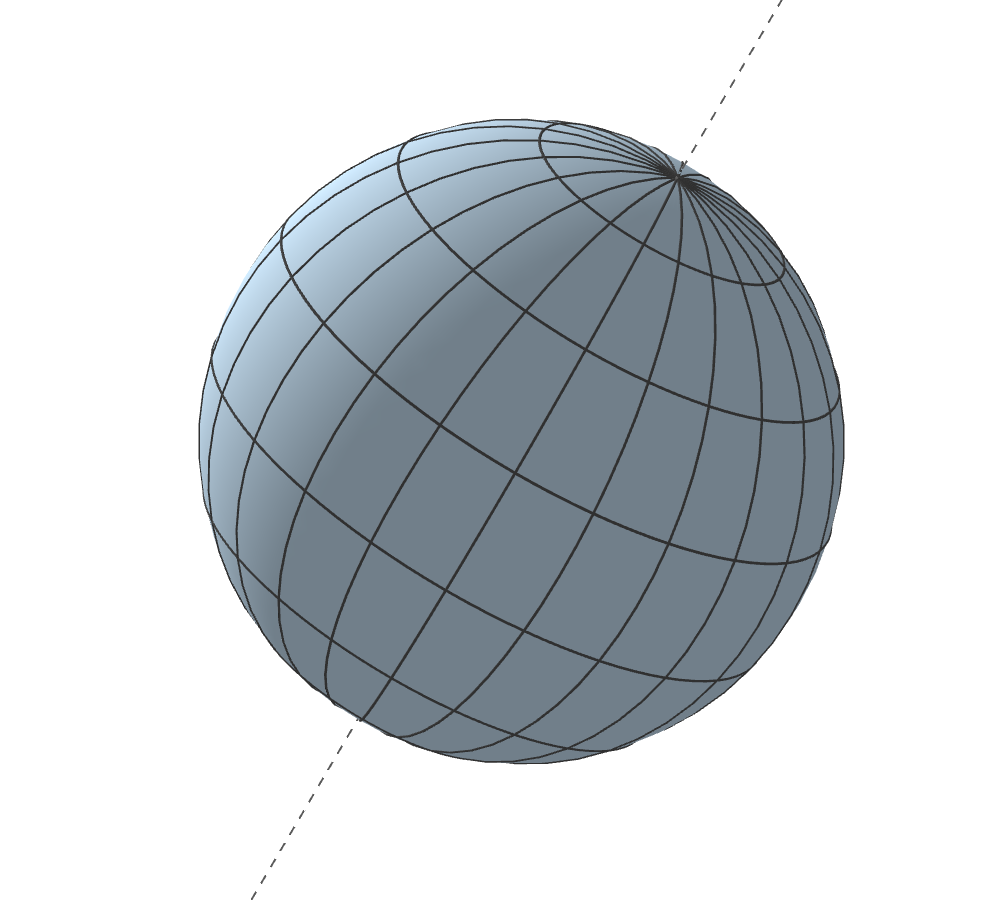
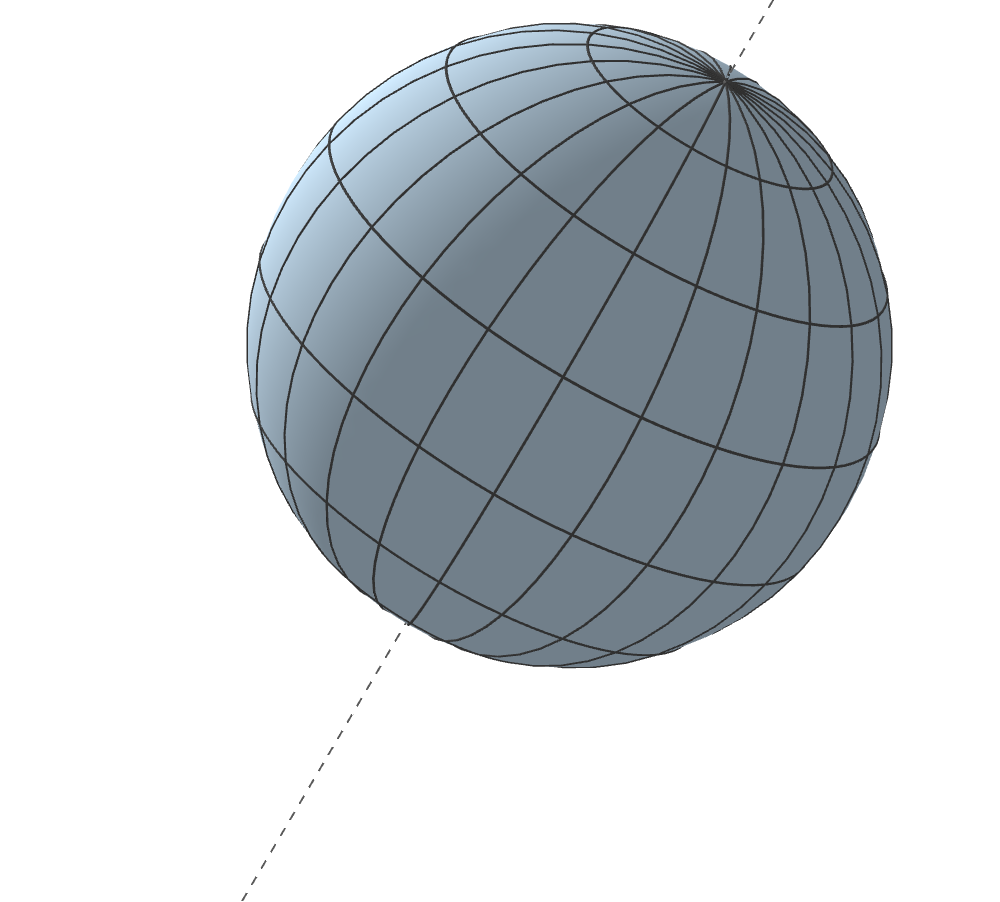
ok

Changed region(s): [[0.186, 0.0, 0.899, 0.8711], [0.527, 0.3111, 0.62, 0.4978]]

diff --git a/math2001/chapter-46.html b/math2001/chapter-46.html
@@ -1039,47 +1039,175 @@
 			<section>
 
 				<section data-auto-animate>
-					<h4>
+					<h5>
 						46.4 Further reading: <br/>Curl fields & vector potentials
-					</h4>
+					</h5>
 					
 					<div class="size-70">
 						<div class="left-txt">
 	
-							<p>One immediate consequence is that if there are two 
+							<p>
+								<span class="fragment" data-fragment-index="0">
+									One immediate consequence is that if there are two 
 								different surfaces $S_1$ and $S_2$ satisfying the criteria 
-								of Stokes' theorem, both with the same boundary curve $C$, 
+								of Stokes' theorem, both with the same boundary curve $C,$ 
+								
+								</span>
+								<span class="fragment" data-fragment-index="1"> 
 								then
-								\[
-								\iint_{S_1}\curl \F \pd \n_1 ~dS = \oint_C \F \pd d\r = \iint_{S_2}\curl \F \pd \n_1 ~dS .
-								\]
+								</span>
+							</p>
+							
+						</div>
+						<div class="">
+	
+							<p><span class="fragment" data-fragment-index="1">
+								$
+								\ds \iint_{S_1}\curl \F \pd \n_1 ~dS = \oint_C \F \pd d\r = \iint_{S_2}\curl \F \pd \n_1 ~dS .
+								$
+							</span>
 							</p>
 							<br/><br/><br/><br/><br/><br/><br/>
 						</div>
 					</div>
 				</section>
+				<section data-auto-animate>
+					<h5>
+						46.4 Further reading: <br/>Curl fields & vector potentials
+					</h5>
+					
+					<div class="size-60">
+						
+						<div class="">
+	
+							<p><span>
+								$
+								\ds \iint_{S_1}\curl \F \pd \n_1 ~dS = \oint_C \F \pd d\r = \iint_{S_2}\curl \F \pd \n_1 ~dS .
+								$
+							</span>
+							</p>
+							
+						</div>
+					</div>
+
+					<div class="r-stack">
+						<img class="fragment fade-out" data-fragment-index="0" style="width: 50%; 
+						display: block;
+						margin-left: auto;
+						margin-right: auto;" data-src="images/chapter-46/sph-001.png" />
+						<img class="fragment fade-in-then-out" data-fragment-index="0" style="width: 50%; 
+						display: block;
+						margin-left: auto;
+						margin-right: auto;" data-src="images/chapter-46/sph-002.png" />
+						<img class="fragment fade-in-then-out" data-fragment-index="1" style="width: 50%; 
+						display: block;
+						margin-left: auto;
+						margin-right: auto;" data-src="images/chapter-46/sph-003.png" />
+						<img class="fragment fade-in-then-out" data-fragment-index="2" style="width: 50%; 
+						display: block;
+						margin-left: auto;
+						margin-right: auto;" data-src="images/chapter-46/sph-004.png" />
+						<img class="fragment fade-in" data-fragment-index="3" style="width: 50%; 
+						display: block;
+						margin-left: auto;
+						margin-right: auto;" data-src="images/chapter-46/sph-005.png" />
+						
+
+					</div>
+					<br/>
+				</section>
+				
+				
 
 				<section data-auto-animate>
-					<h4>
+					<h5>
 						46.4 Further reading: <br/>Curl fields & vector potentials
-					</h4>
+					</h5>
 					
-					<div class="size-70">
+					<div class="size-65">
 						<div class="left-txt">
 	
 							
 							<p>
-								We have that if $S$ is a closed surface satisfying all of the
-								other criteria of Stokes' theorem, and if we define $C$ to be 
-								any closed curve lying on $S$, so that $S_1$ and $S_2$ are two open
-								surfaces whose union makes up $S$ and whose common boundary is 
-								$C$, 
-								<span  class="fragment" data-fragment-index="0">
-									then
+								<span>
+									We have that if $S$ is a closed surface satisfying all of the
+								other criteria of Stokes' theorem, 
 								</span>
+								<span class="fragment" data-fragment-index="0">
+									and if we define $C$ to be 
+								any closed curve lying on $S,$ so that $S_1$ and $S_2$ are two open
+								surfaces whose union makes up $S$ and whose common boundary is 
+								$C,$
+								</span>
+								
 							</p>
+							
+							
+						</div>
+					</div>
+					
+					<div class="r-stack">
+						<img class="fragment fade-out" data-fragment-index="0" style="width: 45%; 
+						display: block;
+						margin-left: auto;
+						margin-right: auto;" data-src="images/chapter-46/sl-001.png" />
+						<img class="fragment fade-in-then-out" data-fragment-index="0" style="width: 45%; 
+						display: block;
+						margin-left: auto;
+						margin-right: auto;" data-src="images/chapter-46/sl-002.png" />
+						<img class="fragment fade-in-then-out" data-fragment-index="1" style="width: 45%; 
+						display: block;
+						margin-left: auto;
+						margin-right: auto;" data-src="images/chapter-46/sl-003.png" />
+						<img class="fragment fade-in-then-out" data-fragment-index="2" style="width: 45%; 
+						display: block;
+						margin-left: auto;
+						margin-right: auto;" data-src="images/chapter-46/sl-004.png" />
+						<img class="fragment fade-in-then-out" data-fragment-index="3" style="width: 45%; 
+						display: block;
+						margin-left: auto;
+						margin-right: auto;" data-src="images/chapter-46/sl-005.png" />
+						<img class="fragment fade-in" data-fragment-index="4" style="width: 45%; 
+						display: block;
+						margin-left: auto;
+						margin-right: auto;" data-src="images/chapter-46/sl-006.png" />
+						
+
+					</div>
+				</section>
+
+				<section data-auto-animate>
+					<h5>
+						46.4 Further reading: <br/>Curl fields & vector potentials
+					</h5>
+					
+					<div class="size-65">
+						<div class="left-txt">
+	
+							
+							<p>
+								<span>
+									We have that if $S$ is a closed surface satisfying all of the
+								other criteria of Stokes' theorem, 
+								</span>
+								<span>
+									and if we define $C$ to be 
+								any closed curve lying on $S,$ so that $S_1$ and $S_2$ are two open
+								surfaces whose union makes up $S$ and whose common boundary is 
+								$C,$
+								</span>
+								<span>then</span>
+							</p>
+							
+							
+						</div>
+					</div>
+					<div class="size-65">
+						<div class="left-txt">
+	
+							
 							<table id="eqarray" style="width:100%">
-								<tr class="fragment" data-fragment-index="0">
+								<tr>
 									<td style="width:30%;text-align:right">
 										<img width="80%" src="images/chapter-46/oiint.png">
 									</td>
@@ -1092,7 +1220,7 @@
 							
 						</div>
 					</div>
-					<br/><br/><br/><br/>
+					<br/><br/><br/><br/><br/>
 				</section>
 
 				<section data-auto-animate>
@@ -1131,7 +1259,7 @@
 								</tr>
 							</table>
 							<p class="fragment" data-fragment-index="3">since the orientation of $C$ as a boundary to $S_1$ will be 
-								in the opposite direction to that of $S_2$.
+								in the opposite direction to that of $S_2.$
 							</p>
 						</div>
 					</div>
@@ -1155,7 +1283,7 @@
 						<div class="left-txt">
 	
 							<p>Let $\F$ be a vector field satisfying $\F = \curl \mathbf G$ for 
-								some vector field $G$. We call $F$ a <em>curl field</em> 
+								some vector field $G.$ We call $F$ a <em>curl field</em> 
 								and $G$ 
 								a corresponding vector potential.
 							</p>
@@ -1184,7 +1312,7 @@
 							
 							<p>
 								We can verify that $\div(\curl \mathbf G) = 0$ for any vector 
-								field $\mathbf G$. 
+								field $\mathbf G.$ 
 								
 								<span class="fragment" data-fragment-index="0">
 									Consequently we should not be too surprised 
@@ -1243,11 +1371,11 @@
 								<span class="fragment" data-fragment-index="0">
 									If every closed surface in the 
 								domain of $\F$ only encloses points which are also in the domain 
-								of $\F$, and if $\div \F = 0$, 
+								of $\F,$ and if $\div \F = 0,$
 								</span> 
 								<span class="fragment" data-fragment-index="1">
 									then there exists some $\mathbf G$ such that 
-								$\F = \curl \mathbf G$. 
+								$\F = \curl \mathbf G.$
 								</span>
 								<span class="fragment" data-fragment-index="2">
 									That is, $\F$ is a $\curl$ field.
@@ -1260,56 +1388,7 @@
 					<br/><br/>
 				</section>
 
-				<section>
-
-					<div class="r-stack">
-						<img class="fragment fade-out" data-fragment-index="0" style="width: 50%; 
-						display: block;
-						margin-left: auto;
-						margin-right: auto;" data-src="images/chapter-46/sph-001.png" />
-						<img class="fragment fade-in-then-out" data-fragment-index="0" style="width: 50%; 
-						display: block;
-						margin-left: auto;
-						margin-right: auto;" data-src="images/chapter-46/sph-002.png" />
-						<img class="fragment fade-in-then-out" data-fragment-index="1" style="width: 50%; 
-						display: block;
-						margin-left: auto;
-						margin-right: auto;" data-src="images/chapter-46/sph-003.png" />
-						<img class="fragment fade-in-then-out" data-fragment-index="2" style="width: 50%; 
-						display: block;
-						margin-left: auto;
-						margin-right: auto;" data-src="images/chapter-46/sph-004.png" />
-						<img class="fragment fade-in-then-out" data-fragment-index="3" style="width: 50%; 
-						display: block;
-						margin-left: auto;
-						margin-right: auto;" data-src="images/chapter-46/sph-005.png" />
-						<img class="fragment fade-in" data-fragment-index="4" style="width: 50%; 
-						display: block;
-						margin-left: auto;
-						margin-right: auto;" data-src="images/chapter-46/sph-006.png" />
-
-					</div>
-				</section>
-
-				<section>
-
-					<div class="r-stack">
-						<img class="fragment fade-out" data-fragment-index="0" style="width: 50%; 
-						display: block;
-						margin-left: auto;
-						margin-right: auto;" data-src="images/chapter-46/sl-001.png" />
-						<img class="fragment fade-in-then-out" data-fragment-index="0" style="width: 50%; 
-						display: block;
-						margin-left: auto;
-						margin-right: auto;" data-src="images/chapter-46/sl-002.png" />
-						<img class="fragment fade-in" data-fragment-index="1" style="width: 50%; 
-						display: block;
-						margin-left: auto;
-						margin-right: auto;" data-src="images/chapter-46/sl-003.png" />
-						
-
-					</div>
-				</section>
+				
 
 
 
